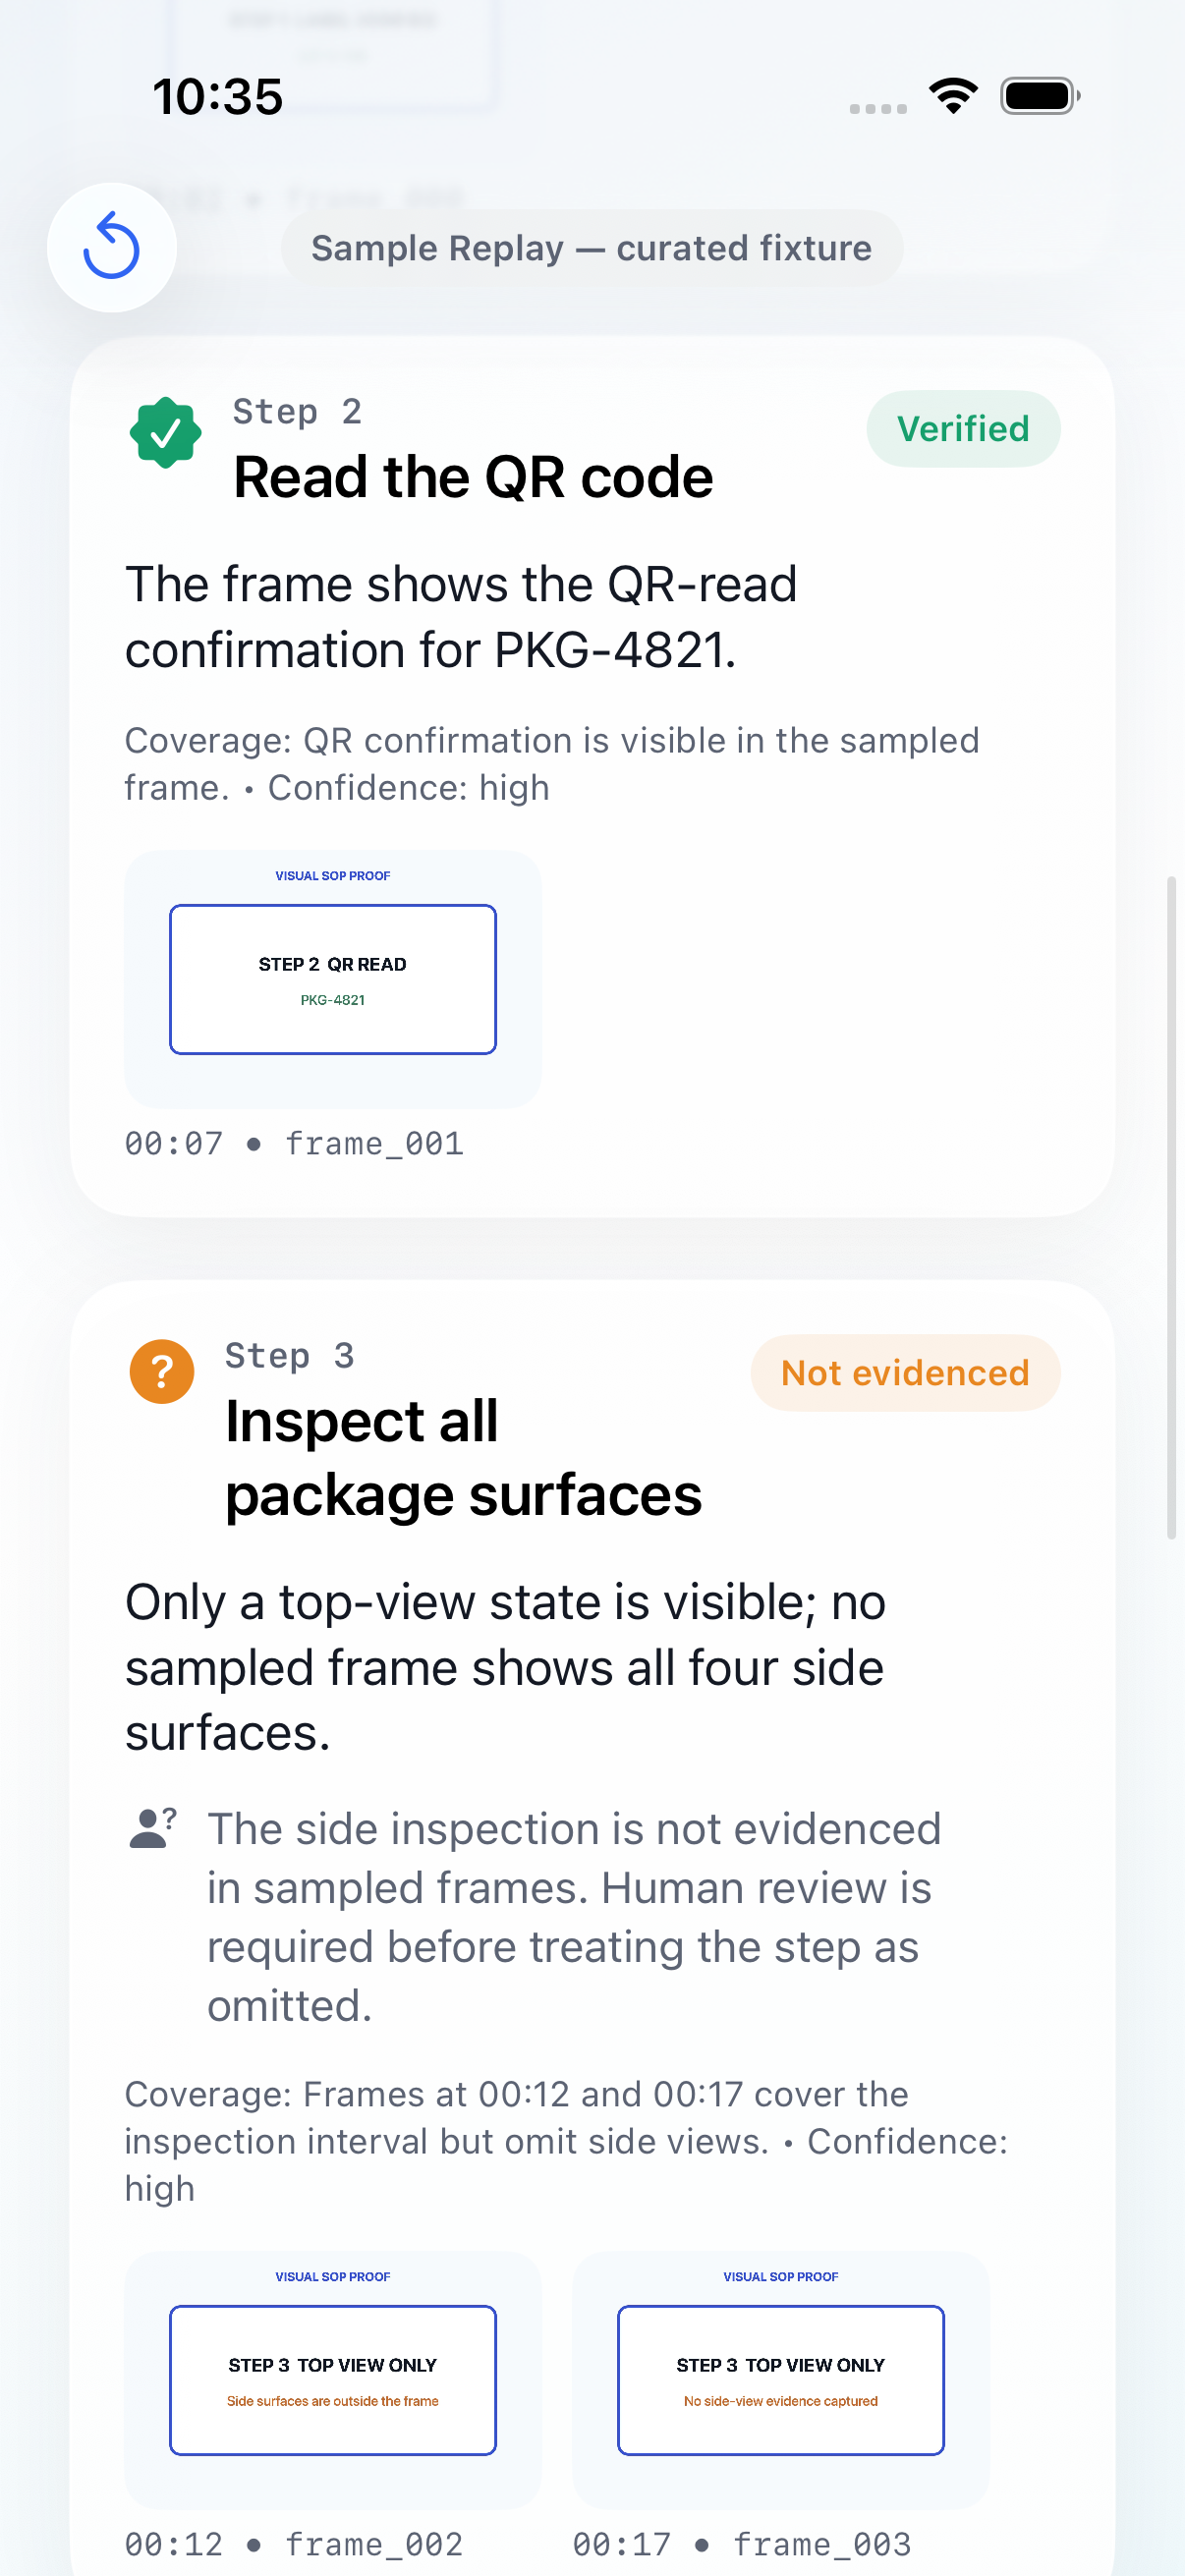
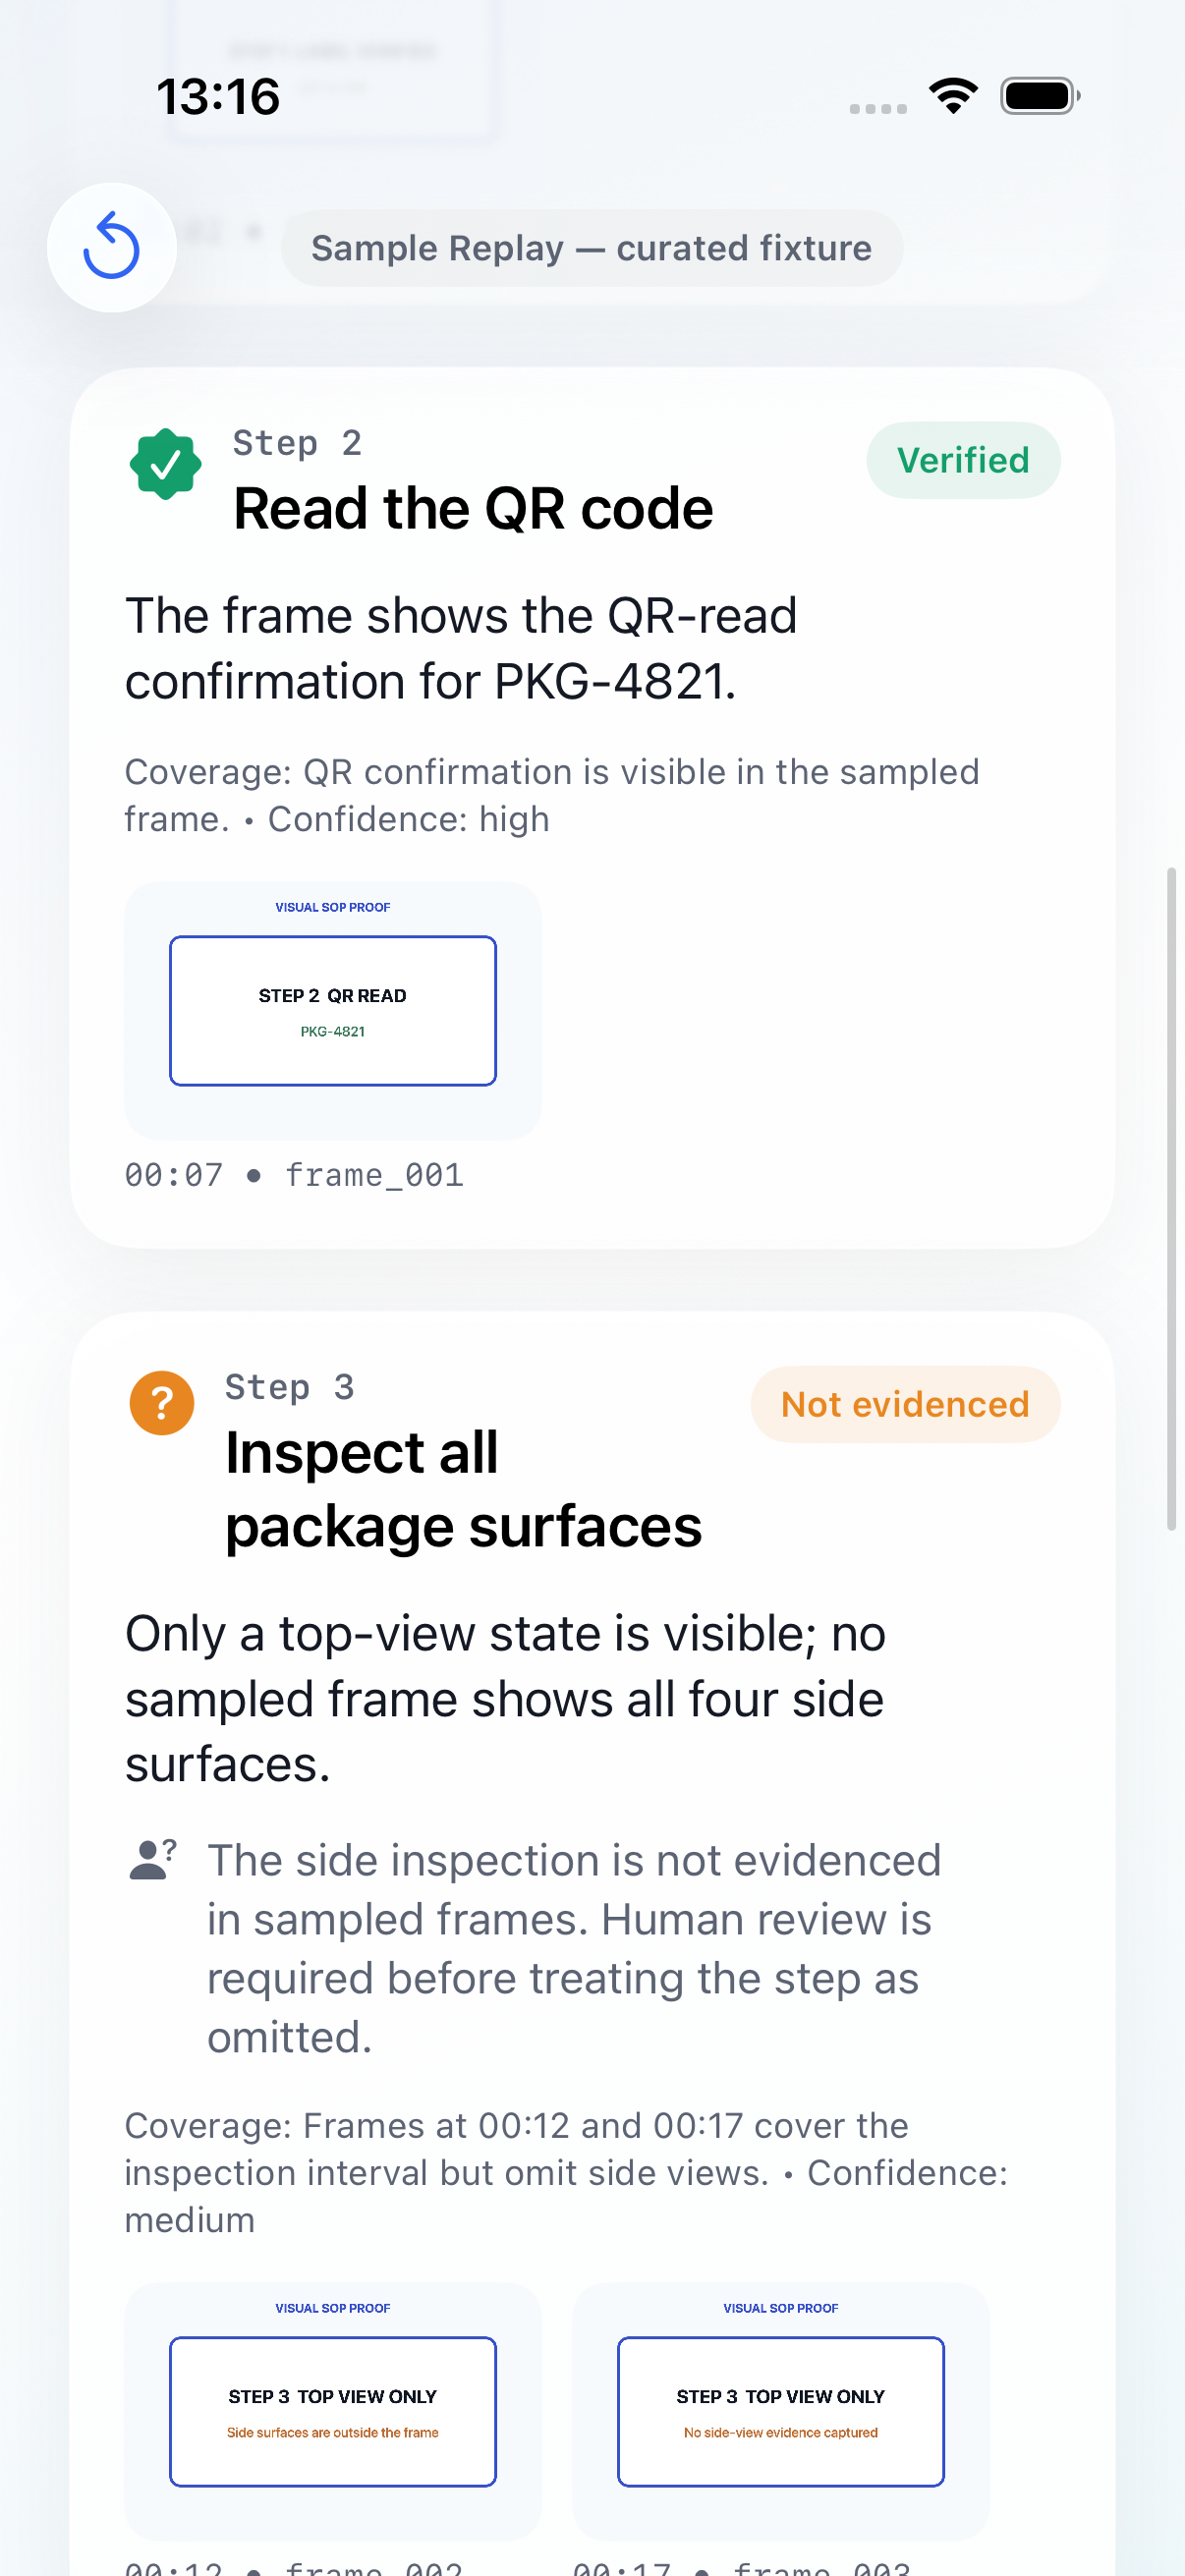
docs: refresh evidence-boundary demo artifacts

diff --git a/docs/DEMO_SCRIPT.md b/docs/DEMO_SCRIPT.md
@@ -1,6 +1,6 @@
-# Demo Script — 2 minutes 35 seconds
+# Demo Script — 2 minutes 22 seconds
 
-Rendered submission candidate: [`artifacts/demo/visual-sop-proof-demo.mp4`](../artifacts/demo/visual-sop-proof-demo.mp4), 2 minutes 27.54 seconds. The exact synthesized English narration is stored in [`artifacts/demo/narration.txt`](../artifacts/demo/narration.txt).
+Rendered submission candidate: [`artifacts/demo/visual-sop-proof-demo.mp4`](../artifacts/demo/visual-sop-proof-demo.mp4), 2 minutes 22.20 seconds. The exact synthesized English narration is stored in [`artifacts/demo/narration.txt`](../artifacts/demo/narration.txt).
 
 ## 0:00–0:20 — The problem
 
@@ -8,13 +8,13 @@ Rendered submission candidate: [`artifacts/demo/visual-sop-proof-demo.mp4`](../a
 
 Show the app welcome screen. Point to the single logistics workflow and the two clearly separated modes.
 
-## 0:20–0:45 — The product flow
+## 0:20–0:44 — The product flow
 
 “The live workflow accepts a PDF SOP and a 30–60 second inspection video. GPT-5.6 first converts the SOP into observable checks, then evaluates timestamped frames. This offline walkthrough uses Sample Replay, a clearly labeled curated fixture—not an OpenAI response—that passes through the same validator and report generator.”
 
 Tap **Explore Sample Replay**.
 
-## 0:45–1:30 — Evidence, not a verdict
+## 0:44–1:26 — Evidence, not a verdict
 
 “The first two steps have supporting frames: the label was checked and the QR code was scanned. Step 3 is different. The app says ‘Not evidenced,’ not ‘Not performed.’”
 
@@ -24,13 +24,13 @@ Open Step 3.
 
 Show the evidence frames and the missing-view explanation.
 
-## 1:30–2:05 — Audit-assistance output
+## 1:26–1:58 — Audit-assistance output
 
 “The remaining steps show the seal and completion action. Each step shows confidence, observed facts, coverage, and timestamps. The report adds SHA-256 provenance for the SOP, video, compiled procedure, and every sampled frame.”
 
 Show the result list, then the report export action.
 
-## 2:05–2:35 — Why it matters
+## 1:58–2:22 — Why it matters
 
 “This is not another video-summary app. It is a procedure intelligence layer: written work instructions become observable checks, execution becomes traceable evidence, and uncertainty remains visible instead of being turned into a false failure. The same pattern can later support training, process improvement, and real-time guidance, but this MVP proves one logistics inspection reliably.”
 

diff --git a/README.md b/README.md
@@ -16,7 +16,7 @@ OpenAI Build Week — Work & Productivity.
 
 Devpost project: https://devpost.com/software/visual-sop-proof
 
-Local submission video: [artifacts/demo/visual-sop-proof-demo.mp4](artifacts/demo/visual-sop-proof-demo.mp4) — 2 minutes 27.54 seconds with English narration.
+Local submission video: [artifacts/demo/visual-sop-proof-demo.mp4](artifacts/demo/visual-sop-proof-demo.mp4) — 2 minutes 22.20 seconds with English narration.
 
 ## Demo in one minute
 

diff --git a/docs/RULES_CHECKLIST.md b/docs/RULES_CHECKLIST.md
@@ -13,7 +13,7 @@ Checked on 2026-07-18 (Asia/Tokyo).
 - [x] Live mode provides a reproducible judge path through a local proxy.
 - [x] Sample assets are project-created and covered by the repository license.
 - [x] A narrated demo script is under three minutes.
-- [x] A 147.54-second English-narrated demo MP4 was rendered and inspected locally.
+- [x] A 142.20-second English-narrated demo MP4 was rendered and inspected locally.
 - [x] Test commands are documented.
 - [x] The licensed source repository is public at https://github.com/fatshin/visual-sop-proof-ios.
 - [x] The Devpost project page has a complete English description and repository link.